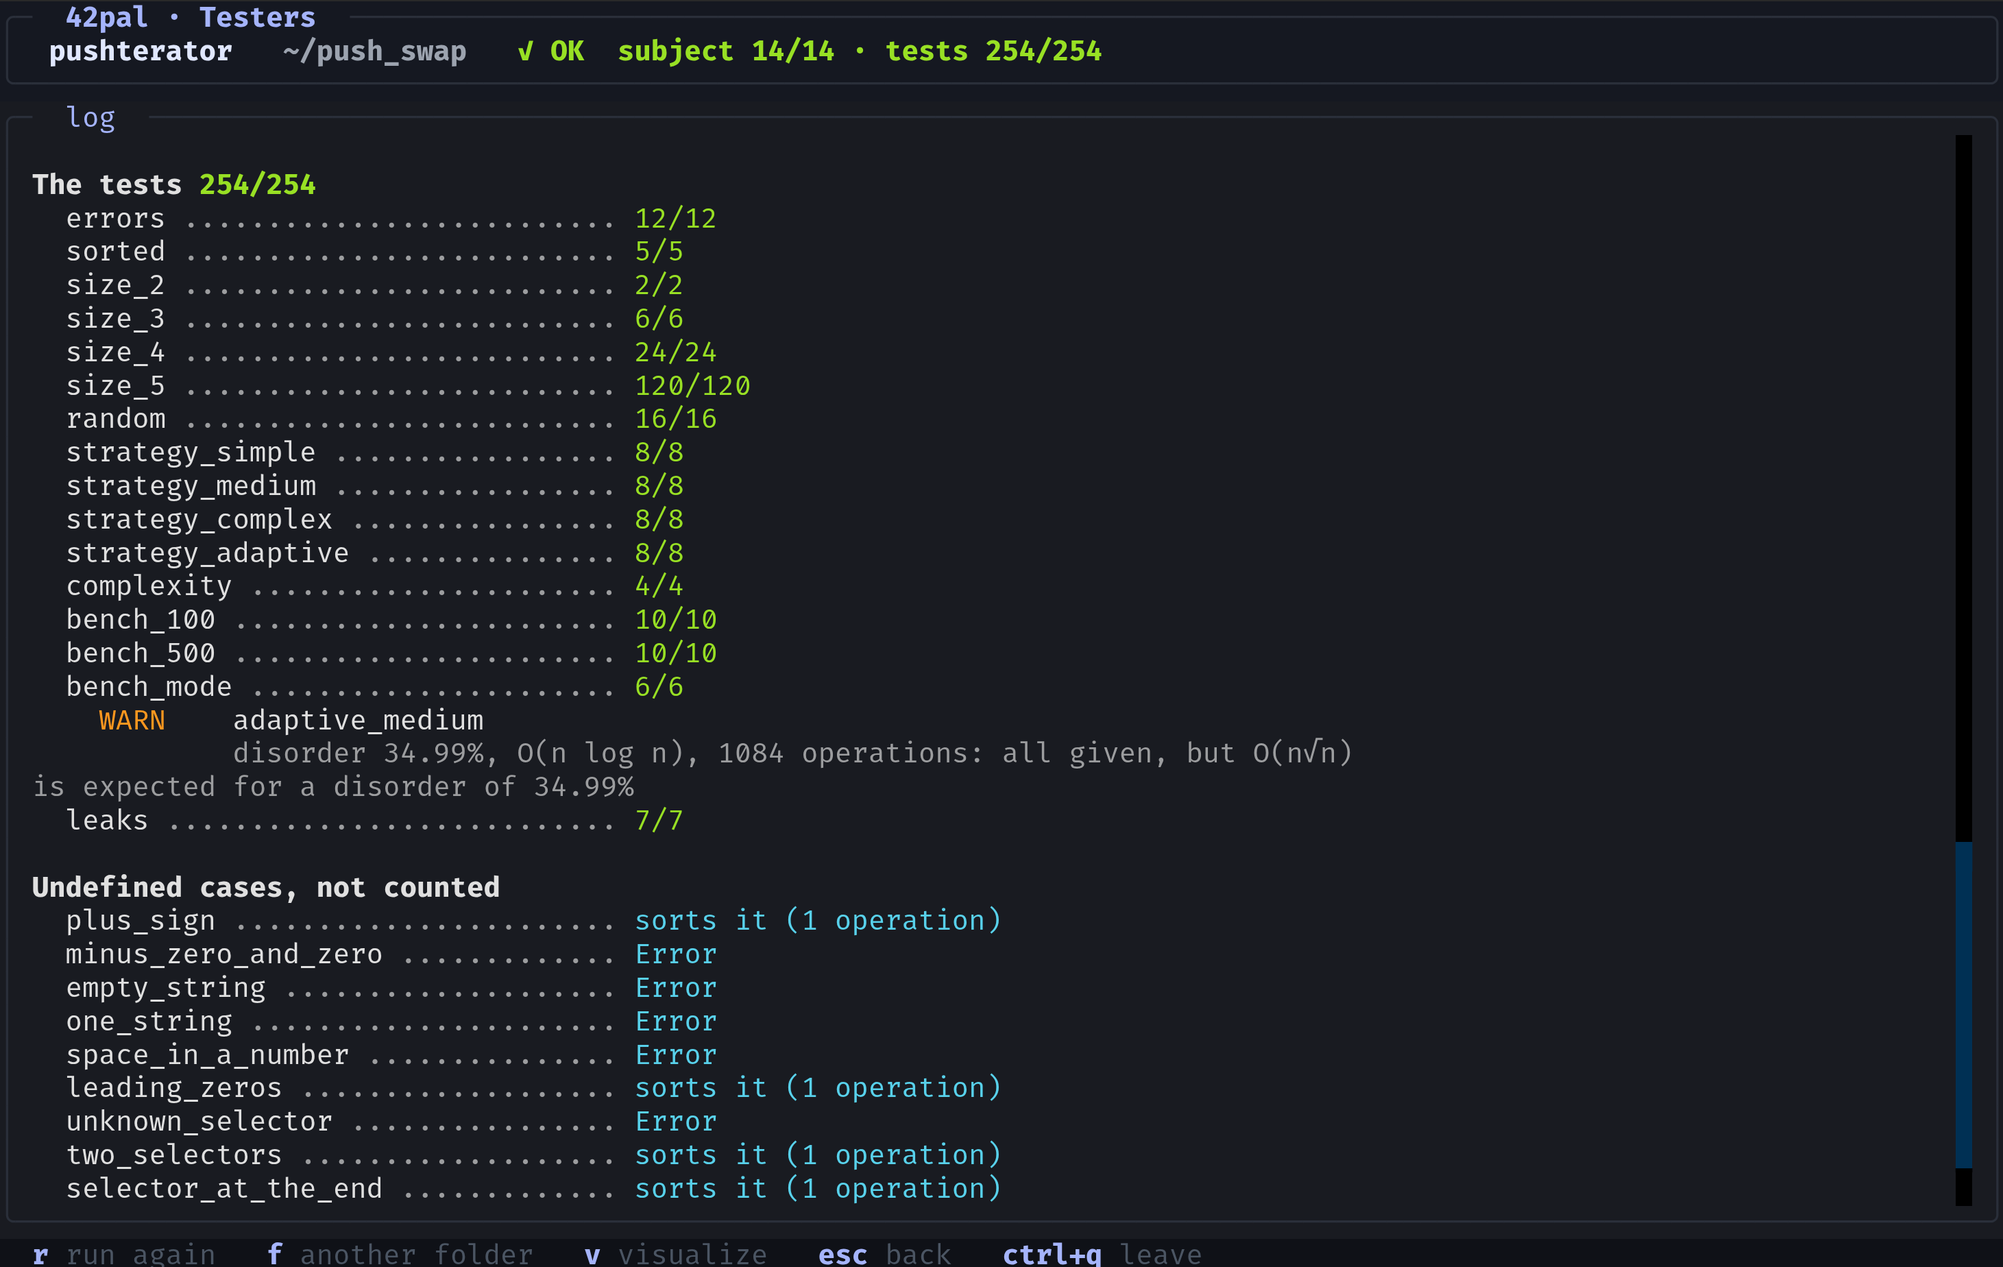
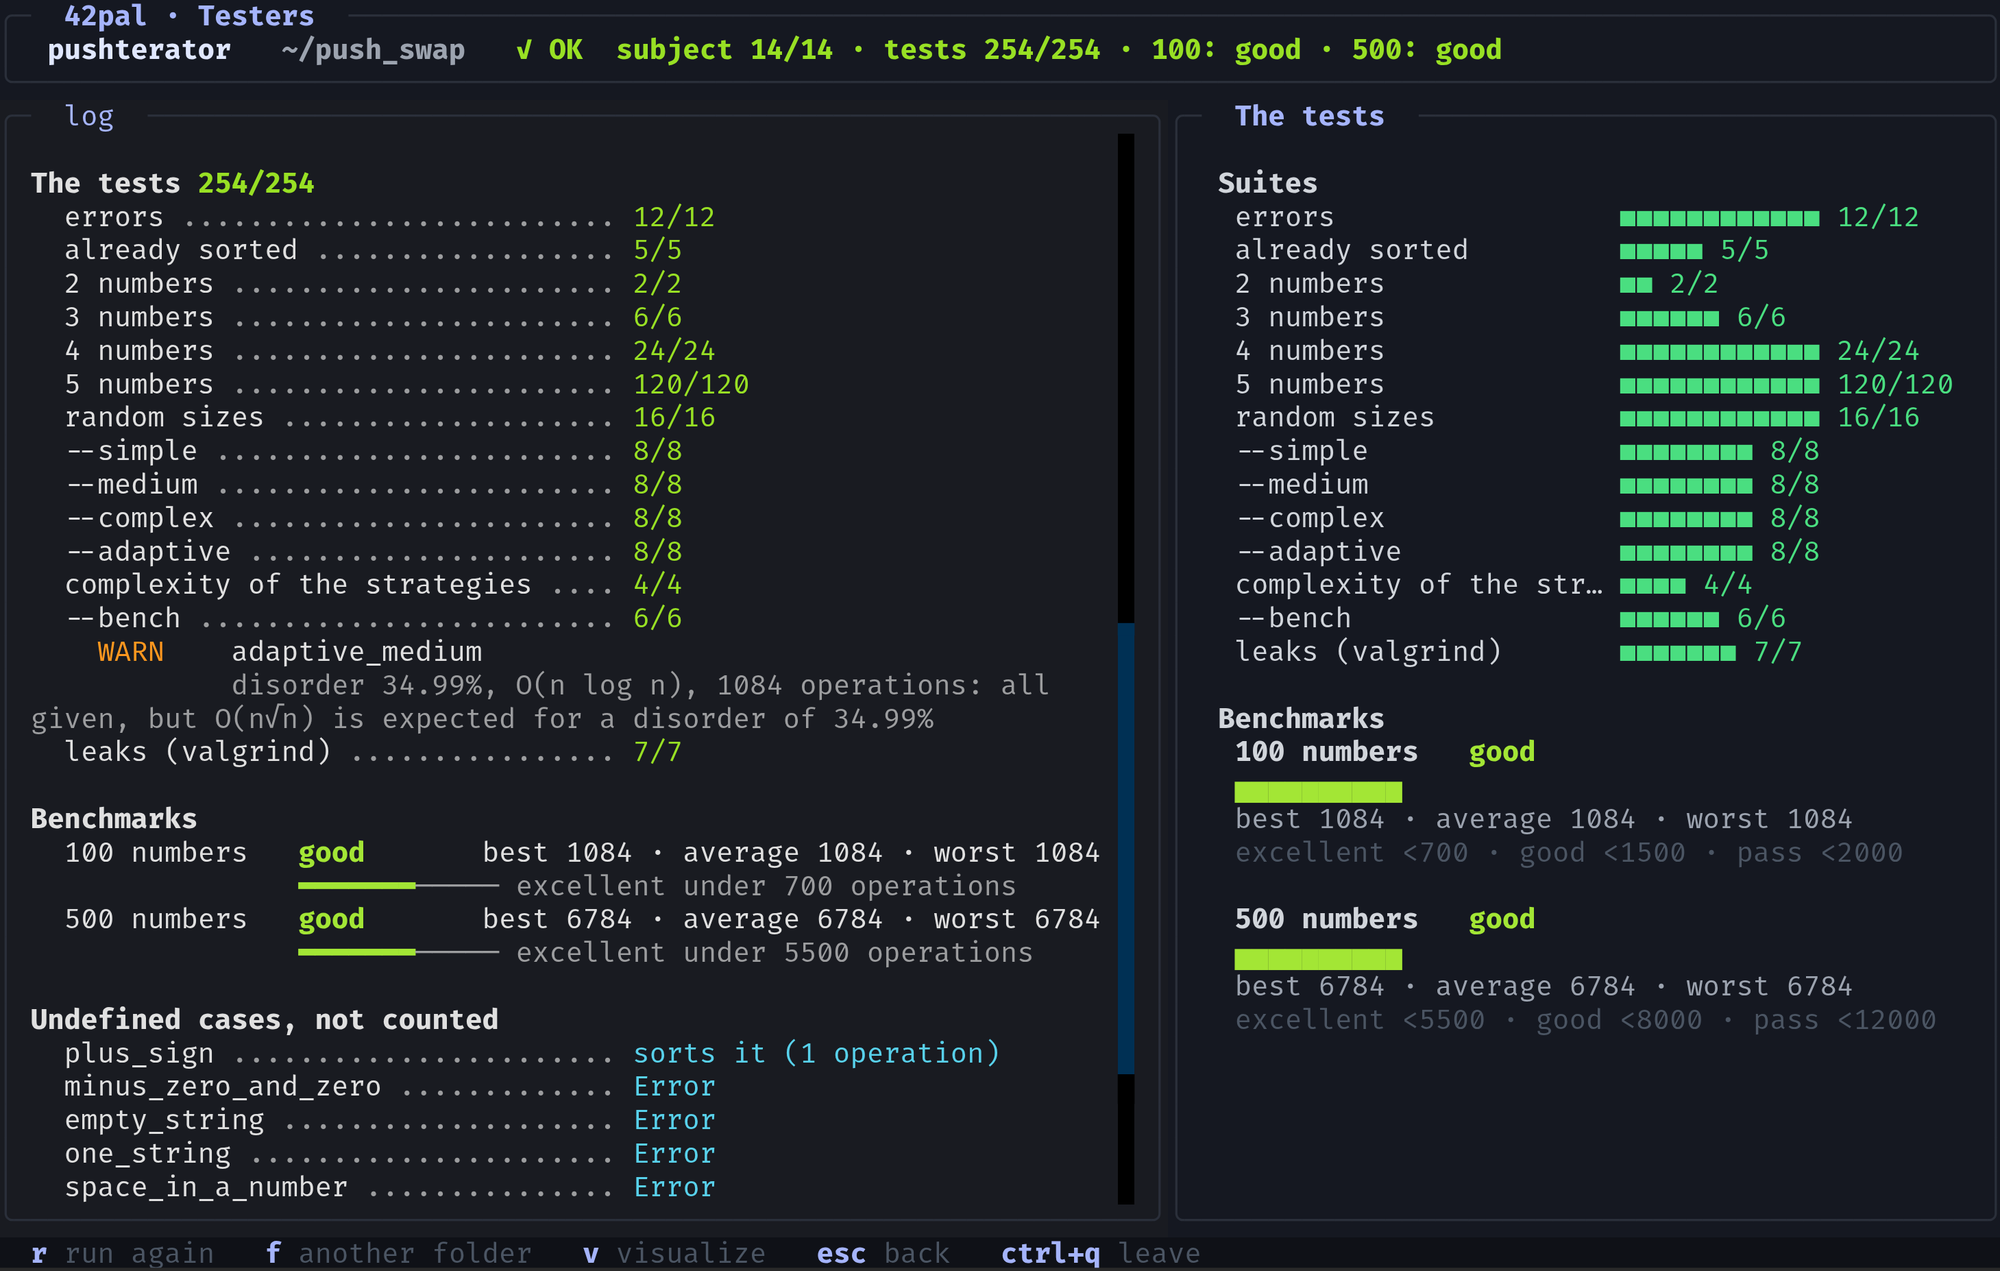
feat(testers): the benchmarks a tester gives drawn like it does; Pushterator v1.2.0, Linerator v1.1.1
A row of suites can have levels (the benchmarks of Pushterator): 42pal
draws its runs as bars in the color of their level, gives it its section
in the report (best, average, worst, the next level) and its level in the
verdict, like Pushterator on its own. The tests keep their operations.
Pushterator v1.2.0 gives its suites; Linerator v1.1.1 names the suite of
a failure live. The screenshot of the results of a tester shows it.

diff --git a/pal42/cli/display.py b/pal42/cli/display.py
@@ -463,7 +463,11 @@ def tester_report(report, tester, project):
 		section.append_text(_score(passed, total))
 		lines.append(section)
 		names = report.names
+		# The benchmarks have their own section, after the tests.
+		benchmarks = {row["key"] for row in report.suites or () if row.get("levels")}
 		for function in report.functions:
+			if function.name in benchmarks:
+				continue
 			line = _leader(names.get(function.name) or tester.prefix + function.name)
 			line.append_text(_score(function.passed, function.total))
 			lines.append(line)
@@ -490,6 +494,7 @@ def tester_report(report, tester, project):
 				line.append(test.short_name)
 				lines.append(line)
 				lines += _details(test.detail)
+	lines += bars_lines(report.suites or (), report.tests)
 	if report.info:
 		lines.append(Text("\n" + t("Undefined cases, not counted"), style="bold"))
 		for test in report.info:
@@ -506,46 +511,128 @@ def tester_report(report, tester, project):
 	lines.append(Text("\n" + t(DISCLAIMER), style="dim italic"))
 	return lines
 
-# The colors of the cells of the panel of a tester.
+# The colors of the cells of the panel of a tester, and of the levels of its benchmarks (the best first).
 CELL_GOOD, CELL_BAD, CELL_WAITING = "#4ade80", "#f87171", "#2a2f3a"
+LEVEL_COLORS = ("#4ade80", "#a3e635", "#fbbf24")
+BARS = "▁▂▃▄▅▆▇█"
+
+def row_level(row, count):
+	"""The level of `count` in a row of benchmarks: the best one it is under, or None (not validated)."""
+	return next((level for level in row["levels"] if count < level["under"]), None)
+
+def level_color(row, level):
+	if level is None:
+		return CELL_BAD
+	index = [other["key"] for other in row["levels"]].index(level["key"])
+	return LEVEL_COLORS[min(index, len(LEVEL_COLORS) - 1)]
+
+def _cells(text, row, results, width, label_room):
+	"""A row of cells: its label, a cell a test (green, red, or waiting), its score."""
+	label = row["label"] if len(row["label"]) <= label_room else row["label"][:label_room - 1] + "…"
+	text.append("\n " + label.ljust(label_room) + " ", style="#d1d5db")
+	passed = [result[0] for result in results]
+	tests = max(row["tests"], len(passed), 1)
+	cells = min(tests, max(4, width - label_room - 10))
+	for cell in range(cells):
+		part = passed[cell * tests // cells:(cell + 1) * tests // cells]
+		covered = (cell + 1) * tests // cells - cell * tests // cells
+		if False in part:
+			style = CELL_BAD
+		elif part and len(part) == covered:
+			style = CELL_GOOD
+		else:
+			style = CELL_WAITING
+		text.append("■", style=style)
+	if passed:
+		bad = passed.count(False)
+		finished = len(passed) >= row["tests"]
+		text.append(f" {len(passed) - bad}/{len(passed)}", style=CELL_BAD if bad else CELL_GOOD if finished else "#9ca3af")
+
+def _bars(text, row, results, width):
+	"""A row of benchmarks: its label and the level of its worst run, a bar a run, the counts, the levels."""
+	counts = [ops for _, ops in results if ops is not None]
+	limits = " · ".join(f"{level['name']} <{level['under']}" for level in row["levels"])
+	text.append("\n " + row["label"], style="bold")
+	if not counts:
+		text.append("\n " + t("waiting…"), style="dim")
+		text.append("\n " + limits, style="#4b5563")
+		return
+	level = row_level(row, max(counts))
+	text.append("   " + (level["name"] if level else t("not validated")), style=f"bold {level_color(row, level)}")
+	limit = row["levels"][-1]["under"]
+	text.append("\n ")
+	for count in counts[-(width - 2):]:
+		text.append(BARS[min(len(BARS) - 1, count * len(BARS) // limit)], style=level_color(row, row_level(row, count)))
+	text.append("\n " + t("best {best} · average {average} · worst {worst}", best=min(counts),
+		average=round(sum(counts) / len(counts)), worst=max(counts)), style="#9ca3af")
+	text.append("\n " + limits, style="#4b5563")
 
 def tester_panel(rows, done, width=44, label_width=22):
-	"""The panel of the suites of a tester: a group of rows, each its label, a cell a test, its score.
+	"""The panel of the suites of a tester: groups of rows, drawn as they come.
 
-	rows: the suites the tester gives (testers.suites_of); done: {suite: [True
-	when it passed, ...]}. A cell is green when its test passed, red when it
-	failed, dim while waiting; with more tests than room, a cell stands for
-	several (red when one failed). The tester draws the same on its own.
+	rows: the suites the tester gives (testers.suites_of); done: {suite:
+	[(passed, operations), ...]}. A row of cells has a cell a test: green
+	when it passed, red when it failed, dim while waiting; with more tests
+	than room, a cell stands for several (red when one failed). A row of
+	benchmarks has a bar a run, as high as its operations, in the color of
+	its level. The tester draws the same on its own.
 	"""
 	text, group = Text(), None
 	for row in rows:
-		if row["group"] != group:
+		first = row["group"] != group
+		if first:
 			group = row["group"]
 			if text:
 				text.append("\n\n")
 			text.append(group, style="bold")
 			label_room = min(label_width, max(len(other["label"]) for other in rows if other["group"] == group))
 		results = done.get(row["key"], [])
-		label = row["label"] if len(row["label"]) <= label_room else row["label"][:label_room - 1] + "…"
-		text.append("\n " + label.ljust(label_room) + " ", style="#d1d5db")
-		tests = max(row["tests"], len(results), 1)
-		cells = min(tests, max(4, width - label_room - 10))
-		for cell in range(cells):
-			part = results[cell * tests // cells:(cell + 1) * tests // cells]
-			covered = (cell + 1) * tests // cells - cell * tests // cells
-			if False in part:
-				style = CELL_BAD
-			elif part and len(part) == covered:
-				style = CELL_GOOD
-			else:
-				style = CELL_WAITING
-			text.append("■", style=style)
-		if results:
-			bad = results.count(False)
-			finished = len(results) >= row["tests"]
-			text.append(f" {len(results) - bad}/{len(results)}",
-				style=CELL_BAD if bad else CELL_GOOD if finished else "#9ca3af")
+		if row.get("levels"):
+			if not first:
+				text.append("\n")
+			_bars(text, row, results, width)
+		else:
+			_cells(text, row, results, width, label_room)
 	return text
+
+def bars_lines(rows, tests):
+	"""The benchmarks in the report: each row, its level and its counts, a bar to the lowest level and the next one."""
+	lines, group = [], None
+	for row in rows:
+		if not row.get("levels"):
+			continue
+		if row["group"] != group:
+			group = row["group"]
+			lines.append(Text("\n" + group, style="bold"))
+		runs = [test for test in tests if test.function == row["key"]]
+		counts = [test.ops for test in runs if test.ops is not None]
+		if counts:
+			worst = max(counts)
+			level = row_level(row, worst)
+			line = Text(f"  {row['label']:14}")
+			name = Text(level["name"] if level else t("not validated"), style=f"bold {level_color(row, level)}")
+			line.append_text(name)
+			line.append(" " * max(1, 11 - len(name.plain)))
+			line.append(t("best {best} · average {average} · worst {worst}", best=min(counts),
+				average=round(sum(counts) / len(counts)), worst=worst))
+			lines.append(line)
+			target = Text(" " * 16)
+			filled = min(12, round(12 * worst / row["levels"][-1]["under"]))
+			target.append("━" * filled, style=level_color(row, level))
+			target.append("─" * (12 - filled), style="dim")
+			better = row["levels"][:row["levels"].index(level)] if level else row["levels"]
+			if better:
+				target.append(" " + t("{level} under {count} {unit}", level=better[-1]["name"], count=better[-1]["under"],
+					unit=row.get("unit", "")).rstrip(), style="dim")
+			lines.append(target)
+		for test in runs:
+			if test.bad and test.ops is None:
+				line = Text("    ")
+				line.append_text(_status(test.status))
+				line.append(test.short_name)
+				lines.append(line)
+				lines += _details(test.detail)
+	return lines
 
 def progress_bar(done, total, width=24):
 	"""A bar of `width` characters, filled as `done` goes to `total`."""
@@ -601,6 +688,12 @@ def tester_verdict(report):
 		scores.append(t("subject {passed}/{total}", passed=report.conformity_score[0], total=report.conformity_score[1]))
 	if report.functions:
 		scores.append(t("tests {passed}/{total}", passed=report.test_score[0], total=report.test_score[1]))
+	# The level of each benchmark, when the tester gives them.
+	for row in report.suites or ():
+		counts = [test.ops for test in report.tests if test.function == row["key"] and test.ops is not None]
+		if row.get("levels") and counts:
+			level = row_level(row, max(counts))
+			scores.append(f"{row['short']}: {level['name'] if level else t('not validated')}")
 	if scores:
 		verdict.append("  " + " · ".join(scores))
 	return verdict

diff --git a/pal42/testers.py b/pal42/testers.py
@@ -76,8 +76,8 @@ TESTERS = (
 		project="push_swap",
 		summary=N_("push_swap, subject of 2026: the strategies, --bench, the benchmarks"),
 		url="https://github.com/Blaeste/Pushterator.git",
-		tag="v1.1.1",
-		commit="c7519b1b4ef0fd3a86a8ee71ba26482293097f31",
+		tag="v1.2.0",
+		commit="971d842dc2f59a36ce7fce438e2fdddc135def6a",
 		launcher="pushterator",
 		marker="Makefile",
 		marker_text="push_swap",
@@ -92,8 +92,8 @@ TESTERS = (
 		project="get_next_line",
 		summary=N_("get_next_line: every BUFFER_SIZE, read and malloc failures, the bonus"),
 		url="https://github.com/Blaeste/Linerator.git",
-		tag="v1.1.0",
-		commit="c150771b384342a8072a3005a6f18ab46a222c6e",
+		tag="v1.1.1",
+		commit="e74cdfeaa0a92d155a807441015b9eb3b919106c",
 		launcher="linerator",
 		marker="get_next_line.c",
 		streams=True,
@@ -198,6 +198,8 @@ class TestCase:
 	name: str
 	status: str
 	detail: str
+	# The operations of a run that has some (a benchmark of push_swap), else None.
+	ops: int = None
 
 	@property
 	def function(self):
@@ -297,7 +299,7 @@ class Progress:
 	tests_done: int = 0
 	# The tests failed so far.
 	bad: list = field(default_factory=list)
-	# The suites as the tester draws them (from its plan), and for each one whether each test passed.
+	# The suites as the tester draws them (from its plan), and for each one (passed, operations) of each test.
 	suites: list = field(default_factory=list)
 	results: dict = field(default_factory=dict)
 
@@ -315,29 +317,50 @@ class Progress:
 			self.checks.append(check)
 			return check
 		elif kind == "test":
-			test = TestCase(event.get("name", ""), event.get("status", ""), event.get("detail") or "")
+			test = test_case(event)
 			self.tests_done += 1
-			self.results.setdefault(test.function, []).append(not test.bad)
+			self.results.setdefault(test.function, []).append((not test.bad, test.ops))
 			if test.bad:
 				self.bad.append(test)
 			return test
 		return None
+
+def test_case(item):
+	"""The TestCase of a test of the JSON, or of a test event."""
+	ops = item.get("ops")
+	return TestCase(str(item.get("name", "")), str(item.get("status", "")), item.get("detail") or "",
+		ops if isinstance(ops, int) and not isinstance(ops, bool) else None)
+
+def _levels(row):
+	"""The levels of a row of benchmarks, best first: [{key, name, under}], or None."""
+	levels = row.get("levels")
+	if not isinstance(levels, list):
+		return None
+	found = [{"key": str(level["key"]), "name": str(level.get("name") or level["key"]), "under": level["under"]}
+		for level in levels if isinstance(level, dict) and "key" in level and isinstance(level.get("under"), int)]
+	return found or None
 
 def suites_of(data):
 	"""The suites a tester names and draws ("suites" of its JSON or of its plan), checked.
 
 	Each one: {key, name, group, label, tests}: its key in the names of the
 	tests, its name for the report, its group and its label in the panel, and
-	how many tests it has. Nothing when the tester gives none.
+	how many tests it has. A row of benchmarks has its levels too (best
+	first: {key, name, under}), the unit of its counts and a short name for
+	the verdict: its runs are drawn as bars. Nothing when the tester gives none.
 	"""
 	rows = []
 	for row in data.get("suites") or () if isinstance(data.get("suites"), list) else ():
 		if not isinstance(row, dict) or not isinstance(row.get("key"), str):
 			continue
 		tests = row.get("tests")
-		rows.append({"key": row["key"], "name": str(row.get("name") or row["key"]), "group": str(row.get("group") or ""),
+		found = {"key": row["key"], "name": str(row.get("name") or row["key"]), "group": str(row.get("group") or ""),
 			"label": str(row.get("label") or row.get("name") or row["key"]),
-			"tests": tests if isinstance(tests, int) and tests >= 0 else 0})
+			"tests": tests if isinstance(tests, int) and tests >= 0 else 0}
+		levels = _levels(row)
+		if levels:
+			found.update(levels=levels, unit=str(row.get("unit") or ""), short=str(row.get("short") or found["label"]))
+		rows.append(found)
 	return rows
 
 def failed(title, detail="", output=""):
@@ -352,8 +375,7 @@ def parse(data, tester, output=""):
 			tester=tester.name, format=found), output=output)
 	checks = [Check(item.get("key", ""), item.get("group", ""), item.get("label", ""), item.get("status", ""),
 		item.get("detail") or "") for item in data.get("conformity") or []]
-	tests = [TestCase(item.get("name", ""), item.get("status", ""), item.get("detail") or "")
-		for item in data.get("tests") or []]
+	tests = [test_case(item) for item in data.get("tests") or [] if isinstance(item, dict)]
 	error = data.get("error")
 	return Report(checks, tests, error=(error.get("title", ""), error.get("detail") or "") if error else None,
 		notes=list(data.get("notes") or []), log=data.get("log"), lang=data.get("lang", "en"), output=output,

diff --git a/tests/test_testers_menu.py b/tests/test_testers_menu.py
@@ -528,6 +528,61 @@ GNL_TESTS = [
 	{"name": "read_errors/reopen", "status": "PASS", "detail": "NULL", "ms": 1},
 ]
 
+# The suites as Pushterator gives them: a row of benchmarks has its levels.
+BENCH_ROW = {"key": "bench_100", "name": "100 numbers", "group": "Benchmarks", "label": "100 numbers", "tests": 3,
+	"levels": [{"key": "excellent", "name": "excellent", "under": 700}, {"key": "good", "name": "good", "under": 1500},
+		{"key": "pass", "name": "pass", "under": 2000}], "unit": "operations", "short": "100"}
+SWAP_SUITES = [{"key": "size_3", "name": "3 numbers", "group": "Suites", "label": "3 numbers", "tests": 2}, BENCH_ROW]
+SWAP_TESTS = [
+	{"name": "size_3/1_2_3", "status": "PASS", "detail": "no operation", "ms": 1, "ops": 0},
+	{"name": "size_3/3_2_1", "status": "PASS", "detail": "2 operations", "ms": 1, "ops": 2},
+	{"name": "bench_100/run_1", "status": "PASS", "detail": "650 operations: excellent", "ms": 1, "ops": 650},
+	{"name": "bench_100/run_2", "status": "PASS", "detail": "1100 operations: good", "ms": 1, "ops": 1100},
+	{"name": "bench_100/run_3", "status": "CRASH", "detail": "SIGSEGV", "ms": 1},
+]
+
+class TestTheBenchmarksOfATester(unittest.TestCase):
+	"""A tester whose suites have levels (the benchmarks of Pushterator): bars, their own section, the verdict."""
+
+	def report(self):
+		return testers.parse(results(conformity=[], tests=SWAP_TESTS, suites=SWAP_SUITES), testers.find("pushterator"))
+
+	def text(self, lines):
+		console = Console(file=io.StringIO(), width=100, color_system=None)
+		for line in lines:
+			console.print(line)
+		return console.file.getvalue()
+
+	def test_the_levels_and_the_operations_read(self):
+		report = self.report()
+		self.assertEqual(report.suites[1]["short"], "100")
+		self.assertEqual([test.ops for test in report.tests], [0, 2, 650, 1100, None])
+
+	def test_their_section_in_the_report_and_their_level_in_the_verdict(self):
+		from pal42.cli import display
+		text = self.text(display.tester_report(self.report(), testers.find("pushterator"), Path("/tmp/push_swap")))
+		self.assertIn("Benchmarks", text)
+		self.assertIn("best 650 · average 875 · worst 1100", text)
+		self.assertIn("excellent under 700 operations", text)
+		# A run without operations: its failure under the benchmarks; the suite not listed with the tests.
+		self.assertIn("run_3", text)
+		self.assertNotIn("100 numbers ....", text)
+		verdict = next(line for line in text.splitlines() if line.startswith("✗ KO"))
+		self.assertEqual(verdict, "✗ KO  tests 4/5 · 100: good")
+
+	def test_their_bars_in_the_panel(self):
+		from pal42.cli import display
+		report = self.report()
+		done = {}
+		for test in report.tests:
+			done.setdefault(test.function, []).append((not test.bad, test.ops))
+		panel = display.tester_panel(report.suites, done)
+		lines = panel.plain.splitlines()
+		self.assertEqual(lines[:2], ["Suites", " 3 numbers ■■ 2/2"])
+		self.assertIn(" 100 numbers   good", lines)
+		self.assertIn(" excellent <700 · good <1500 · pass <2000", lines)
+		self.assertIn("waiting…", display.tester_panel([BENCH_ROW], {}).plain)
+
 class TestTheSuitesOfATester(FullScreenTest, TestersTestCase):
 	"""A tester that names and draws its suites: 42pal shows the same names and the same panel as the tester."""
 

diff --git a/pal42/cli/tui.py b/pal42/cli/tui.py
@@ -753,7 +753,7 @@ class TesterScreen(Screen):
 		self.query_one("#activity", Static).set_class(False, "-busy")
 		done = {}
 		for test in report.tests:
-			done.setdefault(test.function, []).append(not test.bad)
+			done.setdefault(test.function, []).append((not test.bad, test.ops))
 		self.show_panel(report.suites or [], done)
 		log = self.log_view
 		# The report takes the place of what came live, like in the tester on its own.

diff --git a/docs/plans/testers.md b/docs/plans/testers.md
@@ -35,6 +35,8 @@ Un menu **Testers** dans le premier menu de `./42pal` : l'étudiant choisit un t
 
 `key` est le début du nom des tests (`buffer_1/…`) ; `name` remplace la clé dans le rapport et les échecs en direct ; `group` et `label` rangent la ligne dans le panneau, `tests` dit combien de cases elle a. Avec `suites`, 42pal montre le panneau à côté du log (à partir de 100 colonnes), comme le testeur seul ; sans, rien ne change. Un `INFO` n'est compté nulle part, un `WARN` passe.
 
+Une ligne de **benchmarks** (Pushterator 1.2.0) a en plus `levels` (du meilleur au plus bas : `{"key": "excellent", "name": "excellent", "under": 700}`), `unit` (`"operations"`) et `short` (`"100"`, pour le verdict) ; ses tests donnent leurs `ops`. 42pal la dessine en barres (une par run, colorée selon son niveau), lui donne sa section dans le rapport (meilleur, moyenne, pire, le niveau suivant) et met son niveau dans le verdict (`100: good`), comme le testeur seul.
+
 ## Étapes
 
 Chaque étape en TDD.
